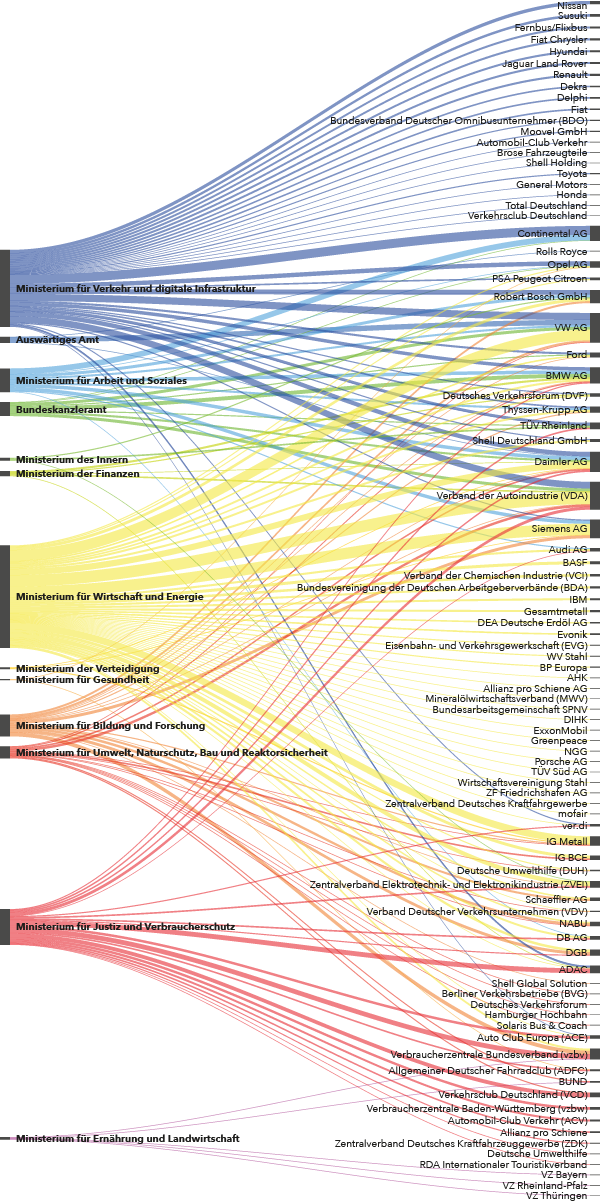
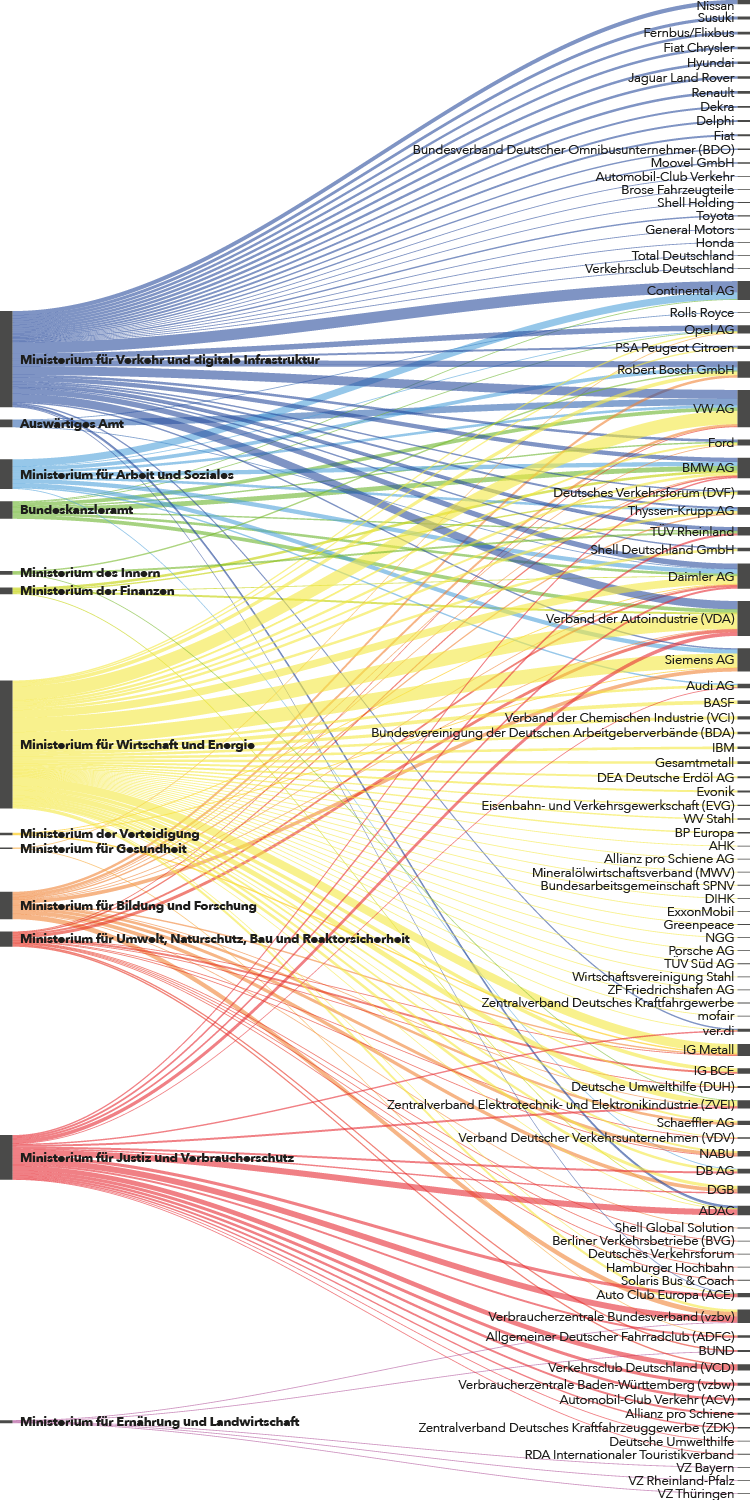
new project

diff --git a/docs/cars/index.md b/docs/cars/index.md
@@ -9,14 +9,14 @@ This is not the only incident which shows that the links between politics and th
 The figure below shows the contacts between German businesses that either make their money with cars or are automotive suppliers. Further displayed are contacts with the labour unions, such as IG Metall that represent the employees of the metal, electrical and steel sector. This is also important to investigate which other actors that are involved in the sector, are able to articulate their interests in transport policy.
  
 
-![](NEW_4.png)
+![](READY_FINAL_connections.png)
 
 
 Many processes in transport policy raise the question of the influence of the automobile industry and other actors on politics. As the party DIE LINKE writes in its "Kleine Anfrage", this reaches from the expansion of the public transport sector as a public-private partnership (PPP) to the negotiations on the reduction of CO2 values for vehicles at European level. The discussion of greenhouse gas and pollutant emissions from motor vehicles is of great public interest in particular, especially in cities like Stuttgart, where particulate matters regularly hit the threshold that was set by the European Union.
 
 To melt down the manifold relationships and focus on the ten most frequent contacts, Volkswagen (VW AG) played a prominent role in interacting with the ministries with slightly more than 60 contacts in the current legislative turn. Volkswagen is the largest European automotive manufacturer and holds the top position world wide together with Toyota and General Motors. 
 
-![](NEW_5.png)
+
 
 ![](READY_FINAL_Top_10_Lobbyists_Companies.png)
 
@@ -45,7 +45,7 @@ As expected, the most money is distributed by the Federal Ministry for Economic 
 As the barchart below is indicating, big players, like Siemens and Daimler are profiting the most from those kind of subsidies. During the last years, Siemens was able to receive more than 250 Mio. Euro from the government for research purposes. 
 
 
-![](READY_FINAL_Top_5_Money_Companiessvg.png)
+![](READY_FINAL_Top_5_Money_Companies.png)
 
 Looking at how the ministries distribute their money, it can be seen that some ministries favor certain companies. 
 
